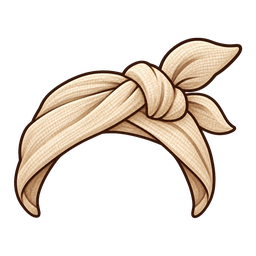
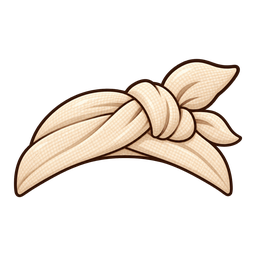
fix(halloween): apply founder accessory feedback before build 198
Founder review of placement-contact-rosie.png, item by item:
- silly_sheet_ghost_hood: Rosie's ears now come up through the hood. Ear
  openings cut where her ears sit (front: idle, seated, wave; turned side
  sprite: near and far ear on face and face_sit), the drawn ear bumps removed,
  and the hood edge inked and stitched around each ear base
- halloween_2026_cobweb_crown: behind: true, so the bottom scallops tuck
  behind her head and the points show above it, on every pose family
- linen_knot_headwrap: redrawn as a snug crown wrap (knot on top, no side
  drape) through the Codex lane and seated on the crown, eyes clear
- halloween_2026_spark_goggles: 12.5% smaller, still centred on the eyes
- pip_candle: stands right of the hoof like the other held pieces
- halloween_2026_crystal_ball: 28% bigger, still at the hoof (wave too)
- high_collar_scarf: redrawn as a flat front collar that hugs the underside
  of her chin and rises a little up the jaw, placed at the neck with a
  turned-pose override; still art only, not on sale

Little Haunt and Spirit Glow unchanged. Placements saved through the
placement studio's save-rel endpoint; review sheets regenerated:
docs/design/halloween-2026/placement-contact-{rosie,poses}.png

diff --git a/constants/hat_rel.generated.ts b/constants/hat_rel.generated.ts
@@ -55,13 +55,13 @@ export const HAT_REL_DATA: Record<string, RelSpec> = {
 	halloween_2026_bat_ear_cap: { pivot: { x: 0.5, y: 0.66 }, widthFrac: 0.64, anchor: "head", behind: false },
 	halloween_2026_bat_wing_bow: { pivot: { x: 0.5, y: 0.5 }, widthFrac: 0.42, anchor: "neck", behind: false },
 	halloween_2026_bubbling_flask: { pivot: { x: 0.27, y: 0.84 }, widthFrac: 0.34, anchor: "hand_r", behind: false, perAnim: { wave: { pivot: { x: 0.5, y: 0.2 }, widthFrac: 0.34, anchor: "hand_r", behind: false } } },
-	halloween_2026_cobweb_crown: { pivot: { x: 0.5, y: 0.66 }, widthFrac: 0.5, anchor: "head", behind: false },
-	halloween_2026_crystal_ball: { pivot: { x: 0.27, y: 0.84 }, widthFrac: 0.36, anchor: "hand_r", behind: false, perAnim: { wave: { pivot: { x: 0.5, y: 0.92 }, widthFrac: 0.36, anchor: "hand_r", behind: false } } },
+	halloween_2026_cobweb_crown: { pivot: { x: 0.5, y: 0.66 }, widthFrac: 0.5, anchor: "head", behind: true },
+	halloween_2026_crystal_ball: { pivot: { x: 0.27, y: 0.84 }, widthFrac: 0.46, anchor: "hand_r", behind: false, perAnim: { wave: { pivot: { x: 0.5, y: 0.92 }, widthFrac: 0.46, anchor: "hand_r", behind: false } } },
 	halloween_2026_ghostlight_lantern: { pivot: { x: 0.27, y: 0.84 }, widthFrac: 0.36, anchor: "hand_r", behind: false, perAnim: { wave: { pivot: { x: 0.5, y: 0.07 }, widthFrac: 0.36, anchor: "hand_r", behind: false } } },
 	halloween_2026_little_haunt: { pivot: { x: 1.82, y: 1.42 }, widthFrac: 0.36, anchor: "body", behind: true },
 	halloween_2026_patched_straw_hat: { pivot: { x: 0.5, y: 0.62 }, widthFrac: 0.7, anchor: "head", behind: false },
 	halloween_2026_pirate_tricorn_hat: { pivot: { x: 0.5, y: 0.58 }, widthFrac: 0.7, anchor: "head", behind: false },
-	halloween_2026_spark_goggles: { pivot: { x: 0.5, y: 0.5 }, widthFrac: 0.72, anchor: "eyes", behind: false },
+	halloween_2026_spark_goggles: { pivot: { x: 0.5, y: 0.5 }, widthFrac: 0.63, anchor: "eyes", behind: false },
 	halloween_2026_star_headwrap: { pivot: { x: 0.5, y: 0.57 }, widthFrac: 0.68, anchor: "head", behind: false },
 	halloween_2026_straw_bow: { pivot: { x: 0.5, y: 0.5 }, widthFrac: 0.42, anchor: "neck", behind: false },
 	halloween_2026_toy_cutlass: { pivot: { x: 0.28, y: 0.76 }, widthFrac: 0.42, anchor: "hand_r", behind: false },
@@ -71,14 +71,14 @@ export const HAT_REL_DATA: Record<string, RelSpec> = {
 	heraldic_crest_bow: { pivot: { x: 0.4989, y: 0.3968 }, widthFrac: 0.42, anchor: "neck", behind: false },
 	hero_mask: { pivot: { x: 0.4848, y: 0.4892 }, widthFrac: 0.73, anchor: "eyes", behind: false },
 	hibiscus_sun_crown: { pivot: { x: 0.4977, y: 0.7087 }, widthFrac: 0.42, anchor: "head", behind: false },
-	high_collar_scarf: { pivot: { x: 0.5, y: 0.4 }, widthFrac: 0.55, anchor: "neck", behind: false },
+	high_collar_scarf: { pivot: { x: 0.5, y: 0.544 }, widthFrac: 0.703, anchor: "neck", behind: false, perAnim: { face: { pivot: { x: 0.4, y: 0.56 }, widthFrac: 0.58, anchor: "neck", behind: false }, face_sit: { pivot: { x: 0.4, y: 0.56 }, widthFrac: 0.58, anchor: "neck", behind: false } } },
 	hungerers_crown: { pivot: { x: 0.5, y: 0.9 }, widthFrac: 0.54, anchor: "head", behind: false },
 	ice_cream: { pivot: { x: 0.5036, y: 0.7232 }, widthFrac: 0.6, anchor: "hand_r", behind: false },
 	jam_jar_lenses: { pivot: { x: 0.4831, y: 0.5226 }, widthFrac: 0.585, anchor: "eyes", behind: false },
 	knit_scarf: { pivot: { x: 0.4988, y: 0.3005 }, widthFrac: 0.35, anchor: "neck", behind: false },
 	lantern_sprout_cap: { pivot: { x: 0.5, y: 0.66 }, widthFrac: 0.62, anchor: "head", behind: false },
 	leaf_crown: { pivot: { x: 0.5064, y: 0.5321 }, widthFrac: 0.4, anchor: "head", behind: false },
-	linen_knot_headwrap: { pivot: { x: 0.5, y: 0.38 }, widthFrac: 0.75, anchor: "head", behind: false },
+	linen_knot_headwrap: { pivot: { x: 0.5, y: 0.58 }, widthFrac: 0.7, anchor: "head", behind: false },
 	magic_wand: { pivot: { x: 0.3214, y: 0.8804 }, widthFrac: 0.385, anchor: "hand_r", behind: false },
 	magnifier: { pivot: { x: 0.325, y: 0.9018 }, widthFrac: 0.4, anchor: "hand_r", behind: false },
 	masquerade: { pivot: { x: 0.4931, y: 0.532 }, widthFrac: 0.62, anchor: "eyes", behind: false },
@@ -101,7 +101,7 @@ export const HAT_REL_DATA: Record<string, RelSpec> = {
 	pencil: { pivot: { x: 0.5, y: 0.5 }, widthFrac: 0.4, anchor: "hand_r", behind: false },
 	pineapple_tiki_hat: { pivot: { x: 0.5, y: 0.6832 }, widthFrac: 0.59, anchor: "head", behind: false },
 	pink_bow: { pivot: { x: 0.4942, y: 0.3964 }, widthFrac: 0.36, anchor: "neck", behind: false },
-	pip_candle: { pivot: { x: 0.8, y: 0.84 }, widthFrac: 0.36, anchor: "hand_r", behind: false, perAnim: { wave: { pivot: { x: 0.8, y: 0.74 }, widthFrac: 0.36, anchor: "hand_r", behind: false } } },
+	pip_candle: { pivot: { x: 0.27, y: 0.84 }, widthFrac: 0.36, anchor: "hand_r", behind: false, perAnim: { wave: { pivot: { x: 0.8, y: 0.74 }, widthFrac: 0.36, anchor: "hand_r", behind: false } } },
 	pirate_tricorn: { pivot: { x: 0.4933, y: 0.7423 }, widthFrac: 0.525, anchor: "head", behind: false },
 	pixel_glasses: { pivot: { x: 0.4714, y: 0.5094 }, widthFrac: 0.59, anchor: "eyes", behind: false },
 	pizza_slice: { pivot: { x: 0.4893, y: 0.6196 }, widthFrac: 0.84, anchor: "hand_r", behind: false },
